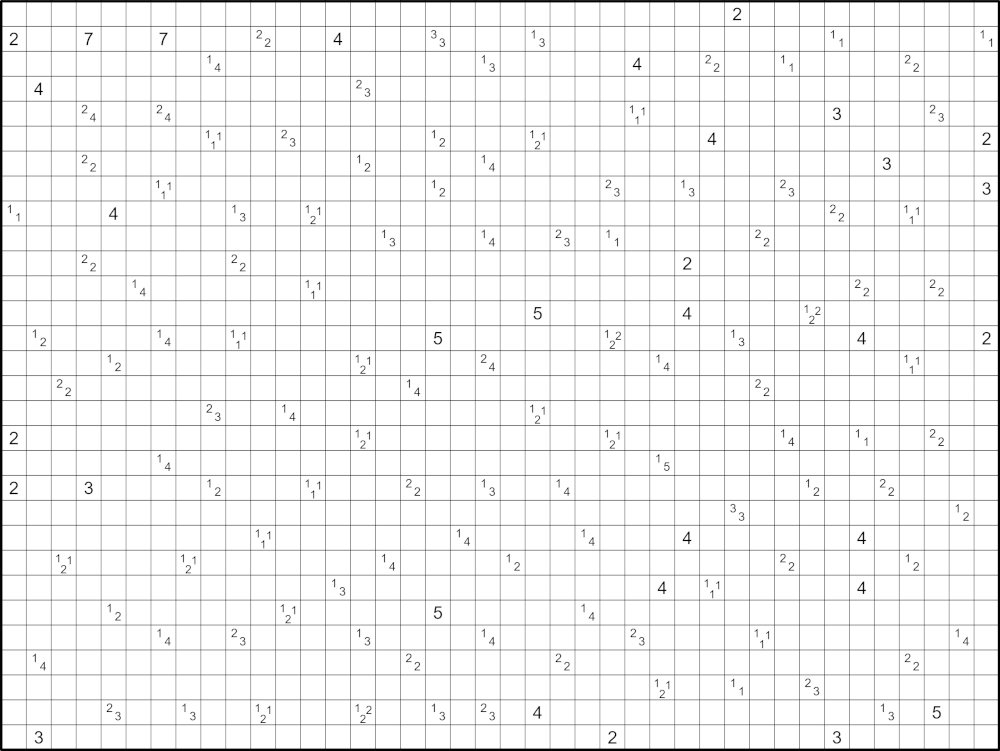
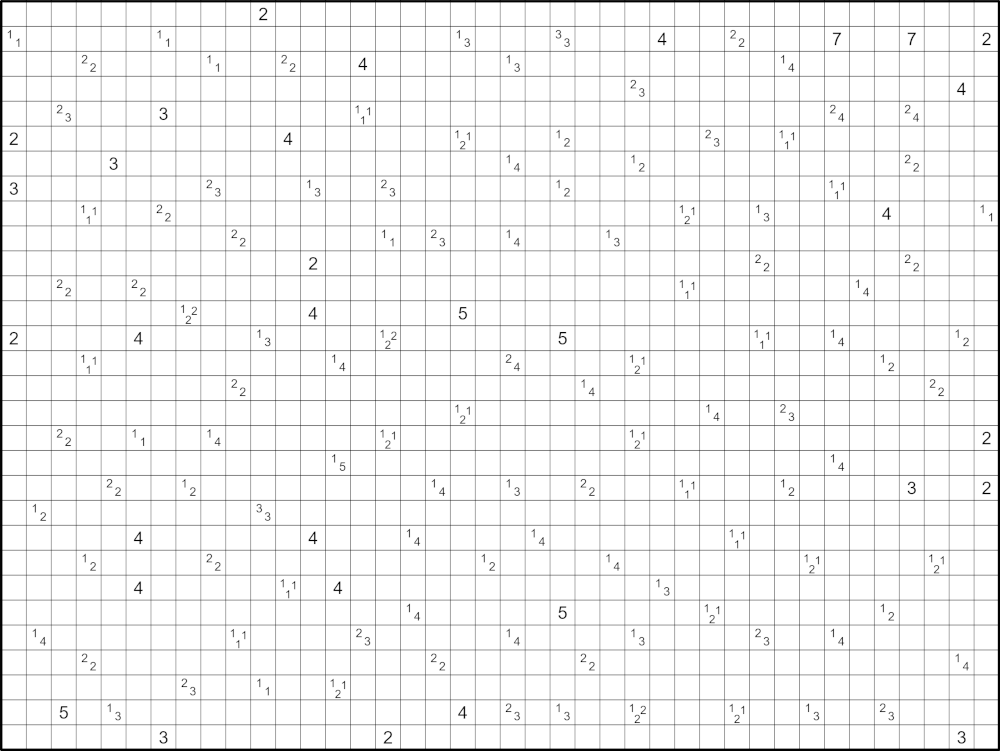
Un-mirror Giant Tapa

diff --git a/puzzles/giant_tapa.html b/puzzles/giant_tapa.html
@@ -10,7 +10,7 @@ order: 47
 <p>Shade some cells so that all shaded cells form one orthogonally connected area and no 2x2 region is entirely shaded. Clues cannot be shaded, and indicate the lengths of the blocks of consecutive shaded cells in the (up to) eight cells surrounding the clue.</p>
 
 <div class="puzzle-page-header">Puzzle Links</div>
-<p><a target="_blank" href="https://tinyurl.com/4vh2a54u">Play on Penpa+</a></p>
-<p><a target="_blank" href="http://tinyurl.com/4dxcnkrs">Play on puzz.link</a></p>
+<p><a target="_blank" href="https://tinyurl.com/2aa2jmvz">Play on Penpa+</a></p>
+<p><a target="_blank" href="https://tinyurl.com/ww36yw3e">Play on puzz.link</a></p>
 
 <img src="{{ "/puzzles/giant_tapa.png" | prepend: site.imagesurl }}">
